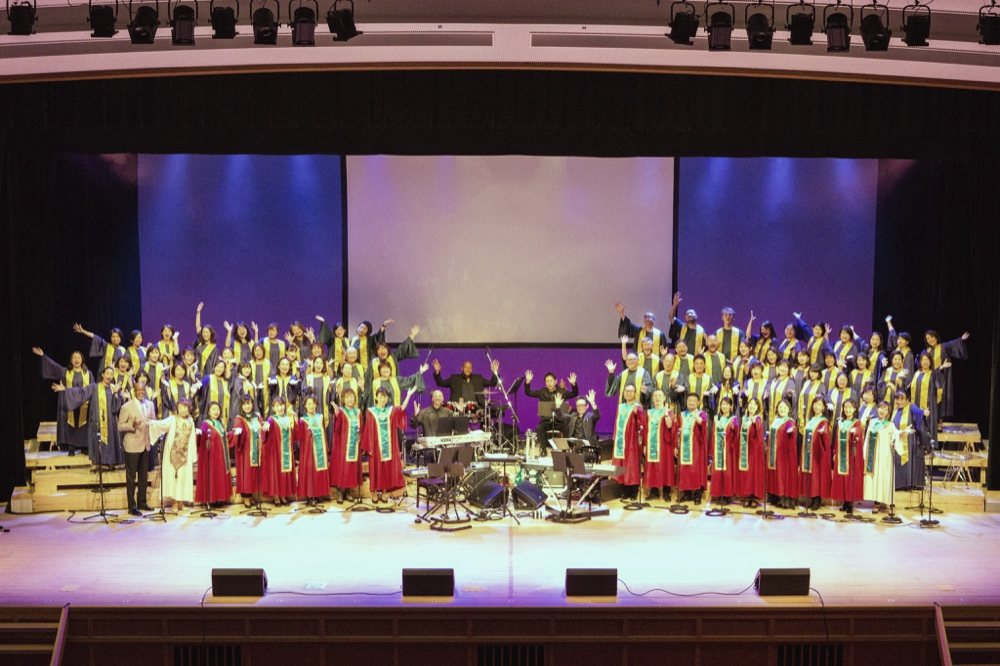
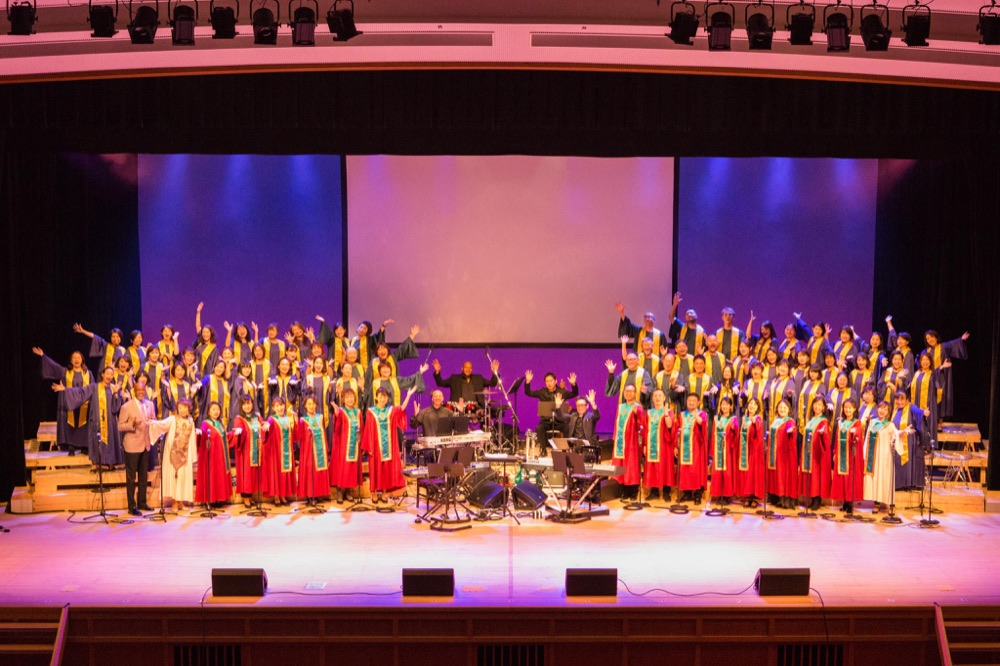
舞台照明のある写真17枚は色調補正をかけず元に戻す
淳の指示（10/23）「ステージ関係の写真はそのままに」。青や赤の照明は演出
なので、色かぶりとして中和しない。戻したのは gb-10th/14th/15th/20th/gls/
harlem/jr10/latin/rec7a/tokai/xmas、top1-02/03/04、top2-01/04/05。
リハーサル・教会・屋外・指導者の27枚は補正のまま。

diff --git a/vov_docs.html b/vov_docs.html
@@ -119,7 +119,7 @@ ul.done{margin:.5rem 0 .5rem 1.2rem}ul.done li{margin:.28rem 0}
   <li>写真を押すと拡大して見られるように（前後の写真も送れます） <span class="no">No.117</span></li>
   <li>フッターに「ふるさと本舗」のリンクを Amazon の左に追加 <span class="no">No.59</span></li>
   <li>ヘッダーとフッターを全ページで同じ形にそろえました（TOP だけ直っていた箇所を、ほかのページにも反映）</li>
-  <li>写真44枚の色味をそろえました（明るさ・色かぶり・黒の締まり・彩度を共通の値へ。色の方向は変えていません）</li>
+  <li>写真27枚（リハーサル・教会・屋外・指導者）の色味をそろえました（明るさ・色かぶり・黒の締まり・彩度を共通の値へ）。舞台照明のある写真17枚は、照明の色を残すため元のままです</li>
   <li>「お知らせ」のページを新設（vov_news.html）。お知らせ1件ごとに記事ページができ、TOP の Information・活動スケジュール・メニュー・フッターから移動できます。いまは仕組みの確認用の見本が1件入っています（本番公開前に消します）</li>
   <li>写真の拡大表示を iPhone でも開くように直し、拡大表示の中でピンチ／ダブルタップでさらに拡大できるようにしました</li>
   <li>英語の見出し・数字の書体を Lora から Noto Serif に。日本語の見出し（Noto Serif JP）と同じ設計で、太さと高さがそろいます</li>
